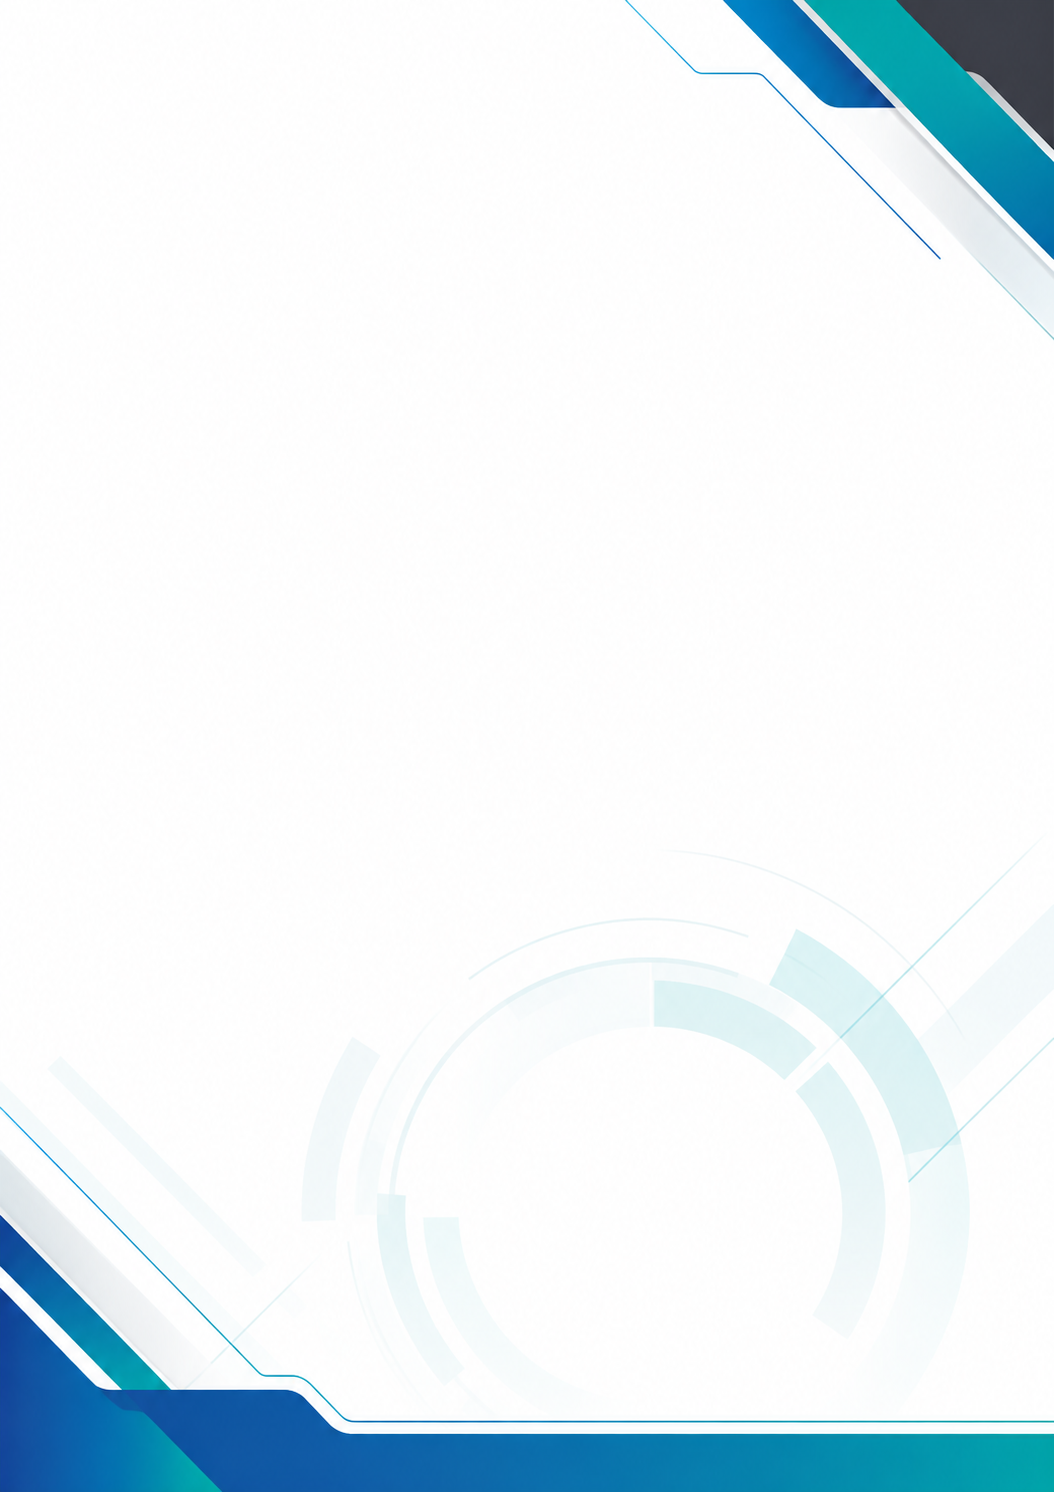
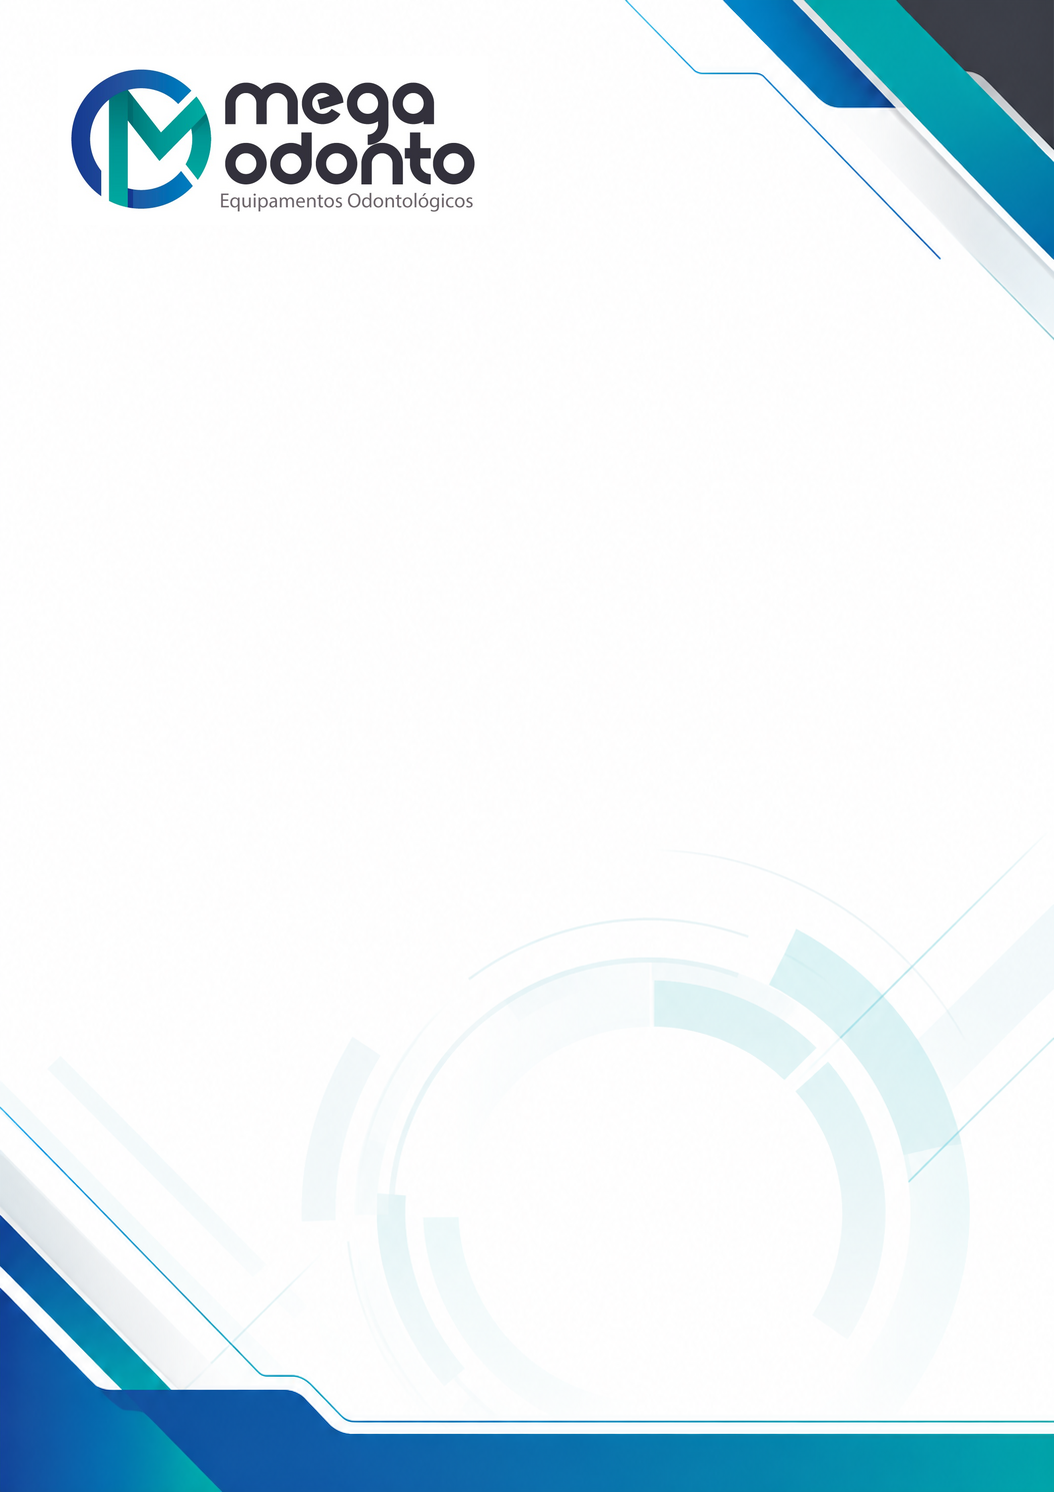
Corrige linhas do PDF e adiciona logomarca ao timbrado

Changed region(s): [[0.0607, 0.0308, 0.4554, 0.1542]]

diff --git a/pdf-export.js b/pdf-export.js
@@ -78,28 +78,28 @@
         }
         .print-brand .print-body h2 {
           box-sizing: border-box !important;
-          height: 6.2mm !important;
+          height: 7mm !important;
           margin-top: 2mm !important;
-          padding: 0 1mm !important;
-          display: flex !important;
-          align-items: center !important;
-          justify-content: center !important;
-          line-height: 1.1 !important;
+          margin-bottom: 0 !important;
+          padding: 1.55mm 1mm 1mm !important;
+          display: block !important;
+          line-height: 3mm !important;
+          background: rgba(255,255,255,.72) !important;
         }
         .print-brand .print-box {
           box-sizing: border-box !important;
-          height: 6mm !important;
-          min-height: 6mm !important;
+          height: 7mm !important;
+          min-height: 7mm !important;
           margin: 0 !important;
-          padding: 0.8mm 1.7mm !important;
-          display: flex !important;
-          align-items: center !important;
-          line-height: 1.15 !important;
+          padding: 1.45mm 1.7mm 1mm !important;
+          display: block !important;
+          line-height: 3mm !important;
         }
         .print-brand .print-question {
           box-sizing: border-box !important;
-          padding: 1.5mm !important;
-          line-height: 1.2 !important;
+          min-height: 12mm !important;
+          padding: 1.8mm 1.5mm 1.2mm !important;
+          line-height: 3.3mm !important;
         }
       `;
       document.head.appendChild(temporaryStyle);

diff --git a/sw.js b/sw.js
@@ -1,4 +1,4 @@
-const CACHE = "mega-odonto-pwa-v1";
+const CACHE = "mega-odonto-pwa-v2";
 const BASE = new URL("./", self.registration.scope);
 const CORE = [
   "./", "./index.html", "./manifest.webmanifest", "./ios-install.css", "./ios-install.js", "./print-one-page.css",
